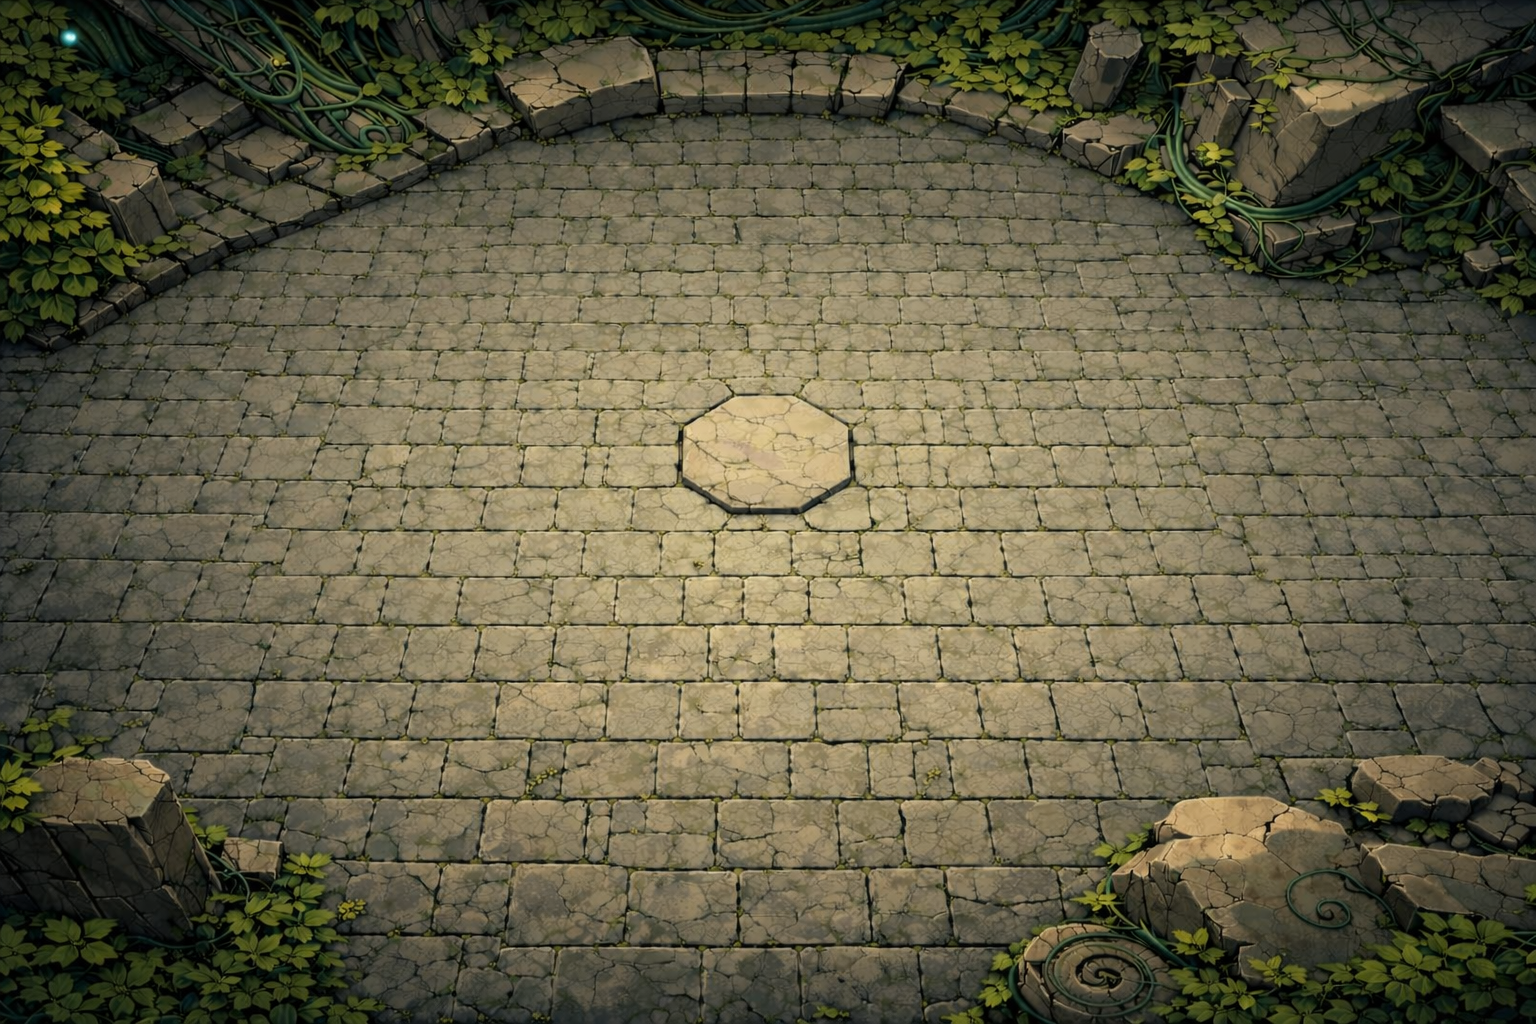
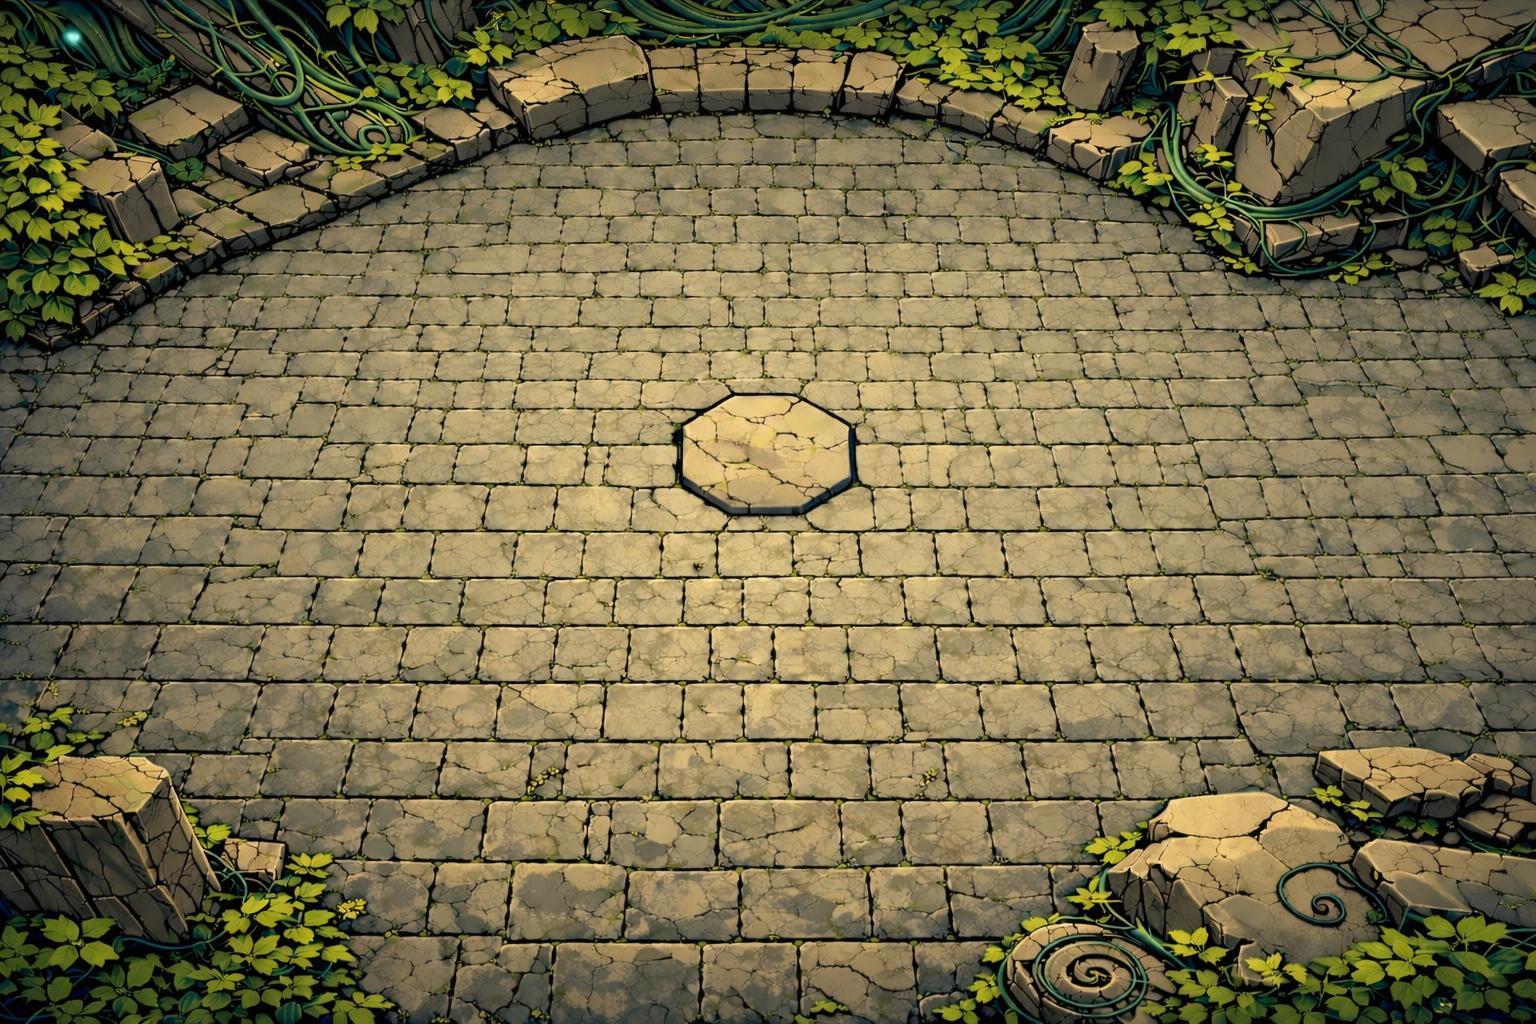
Checkpoint

diff --git a/src/three/ThreeBoardMode.js b/src/three/ThreeBoardMode.js
@@ -1307,7 +1307,7 @@ export default class ThreeBoardMode {
     const height = Math.max(220, maxXZ * 1); //Aquí se cambia el tamaño del tablero
 
     // Vista casi cenital: 10° de inclinación desde arriba (vertical)
-    const tiltDeg = 35; //Aquí se cambia la inclinación del tablero
+    const tiltDeg = 40; //Aquí se cambia la inclinación del tablero
     const tiltRad = (tiltDeg * Math.PI) / 180;
     const dist = Math.max(1, height * Math.tan(tiltRad));
 
